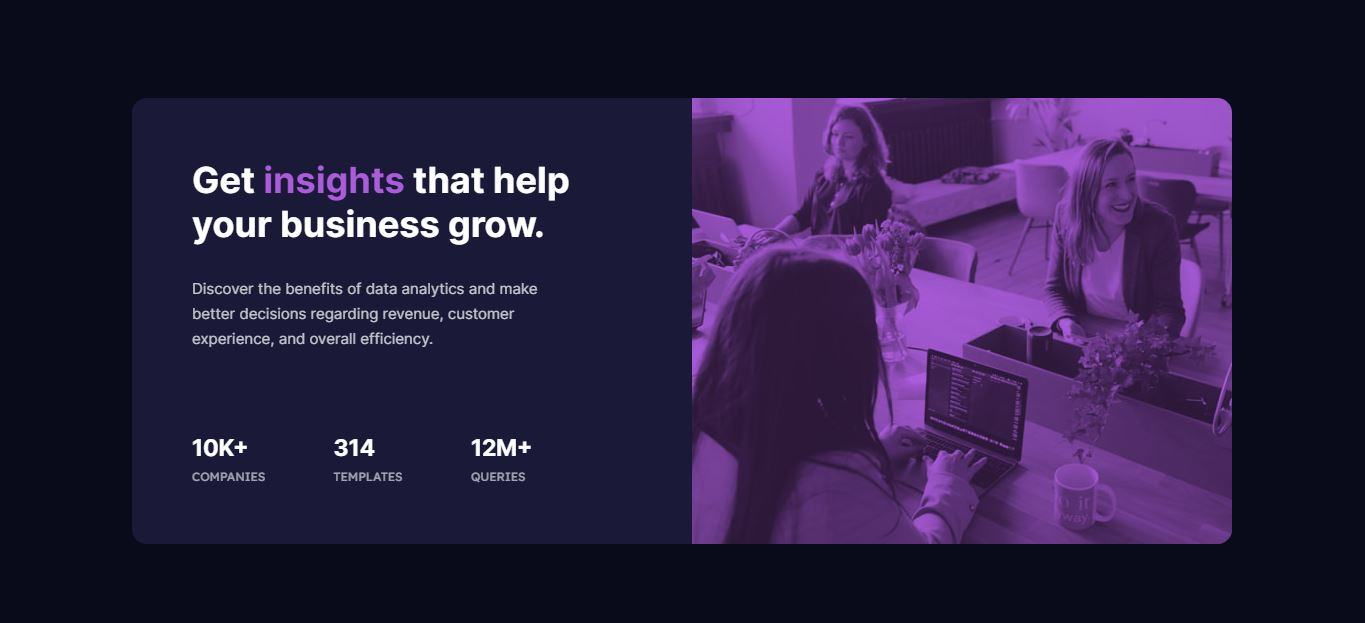
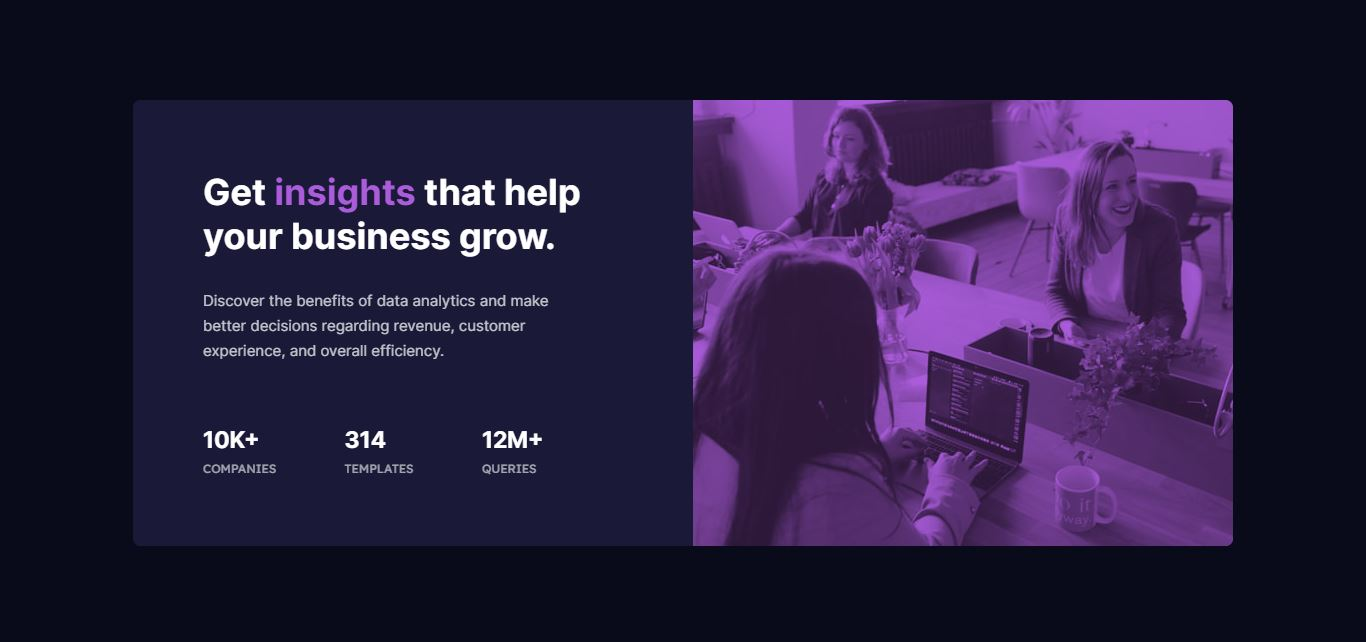
Code refactored

diff --git a/style.css b/style.css
@@ -28,12 +28,12 @@ body {
     width: calc(100% - 120px);
     max-width: 1100px;
     justify-content: space-between;
-    border-radius: 1rem;
+    border-radius: 0.5rem;
     background: hsl(244, 38%, 16%);
 }
 
 .card-block {
-    margin: 60px;
+    margin: 70px;
     max-width: 380px;
     display: flex;
     flex-direction: column;
@@ -62,7 +62,7 @@ body {
     text-transform: uppercase;
     justify-content: space-between;
     max-width: 340px;
-    margin-top: 2rem; 
+    margin-top: 1rem; 
 }
 
 .stats-numbers {
@@ -82,99 +82,78 @@ body {
     position: relative;
     display: flex;
     background: hsl(277, 64%, 61%);
-    border-radius: 0 1rem 1rem 0;
+    border-radius: 0 0.5rem 0.5rem 0;
+}
+
+.card-image img {
+    mix-blend-mode: multiply;
+    opacity: 0.75;
 }
 
 .img-desktop {
-    mix-blend-mode: multiply;
-    opacity: 0.75;
-    border-radius: 0 1rem 1rem 0;
+    border-radius: 0 0.5rem 0.5rem 0;
 }
 
 .img-mobile {
     display: none;
 }
-@media (max-width: 1091px) {
-    .card-block {
-        margin: 40px;
-    }
-}
 
-@media (max-width: 1004px) {
+@media (max-width: 1111px) {
     .container {
         margin: 60px 0;
     }
 
     .card {
         flex-direction: column-reverse;
-        width: 100%;
-        max-width: 600px;
+        width: auto;
+        max-width: calc(100% - 60px);
     }
 
-    .card-block {
-        max-width: fit-content;
-        align-items: center;
-        text-align: center;
-    }
-    
     .card-stats {
-        justify-content: center;
-        /* margin: 0; */
+        max-width: 100%;
+        flex-direction: column;
     }
-    .stat-block {
-        margin-top: 60px;
-        padding: 0 60px;
+
+    .stats-block {
+        margin-top: 2rem;
     }
 
     .card-image {
-        border-radius: 1rem 1rem 0 0;
+        border-radius: 0.5rem 0.5rem 0 0;        
     }
-    
-    .img-desktop {
-        border-radius: 1rem 1rem 0 0;
-        width: 100%;
-    }
-}
-
-@media (max-width: 900px) {
 
     .img-desktop {
         display: none;
     }
 
     .img-mobile {
-        display: block;
-        mix-blend-mode: multiply;
-        opacity: 0.75;
-        border-radius: 1rem 1rem 0 0;
         width: 100%;
-    }
-}
-
-@media (max-width: 660px) {
-    .card {
-        max-width: calc(100% - 60px);
-    }
-}
-
-@media (max-width: 450px) {
-    html {
-        font-size: 12px;
-    }
-
-    .card {
-        max-width: calc(100% - 40px);
-    }
-
-    .container {
-        margin: 60px 0;
+        border-radius: 0.5rem 0.5rem 0 0;
+        display: block;
     }
 
     .card-block {
-        margin: 30px;
+        max-width: fit-content;
+        text-align: center;
+    }
+}
+
+@media (max-width: 489px) {
+    .card {
+        max-width: calc(100% - 30px);
     }
 
-    .stat-block {
-        margin-top: 30px;
+    .card-block {
+        margin: 40px
+    }
+}
+
+@media (max-width: 375px) {
+    html {
+        font-size: 75%;
+    }
+
+    .card-block {
+        margin: 40px 30px;
     }
 }

diff --git a/index.html b/index.html
@@ -20,15 +20,15 @@
           </p>
         </div>
         <div class="card-stats">
-          <div class="stat-block">
+          <div class="stats-block">
             <div class="stats-numbers">10k+</div>
             <div class="stats-heading">companies</div>
           </div>
-          <div class="stat-block">
+          <div class="stats-block">
             <div class="stats-numbers">314</div>
             <div class="stats-heading">templates</div>
           </div>
-          <div class="stat-block">
+          <div class="stats-block">
             <div class="stats-numbers">12m+</div>
             <div class="stats-heading">queries</div>
           </div> 
